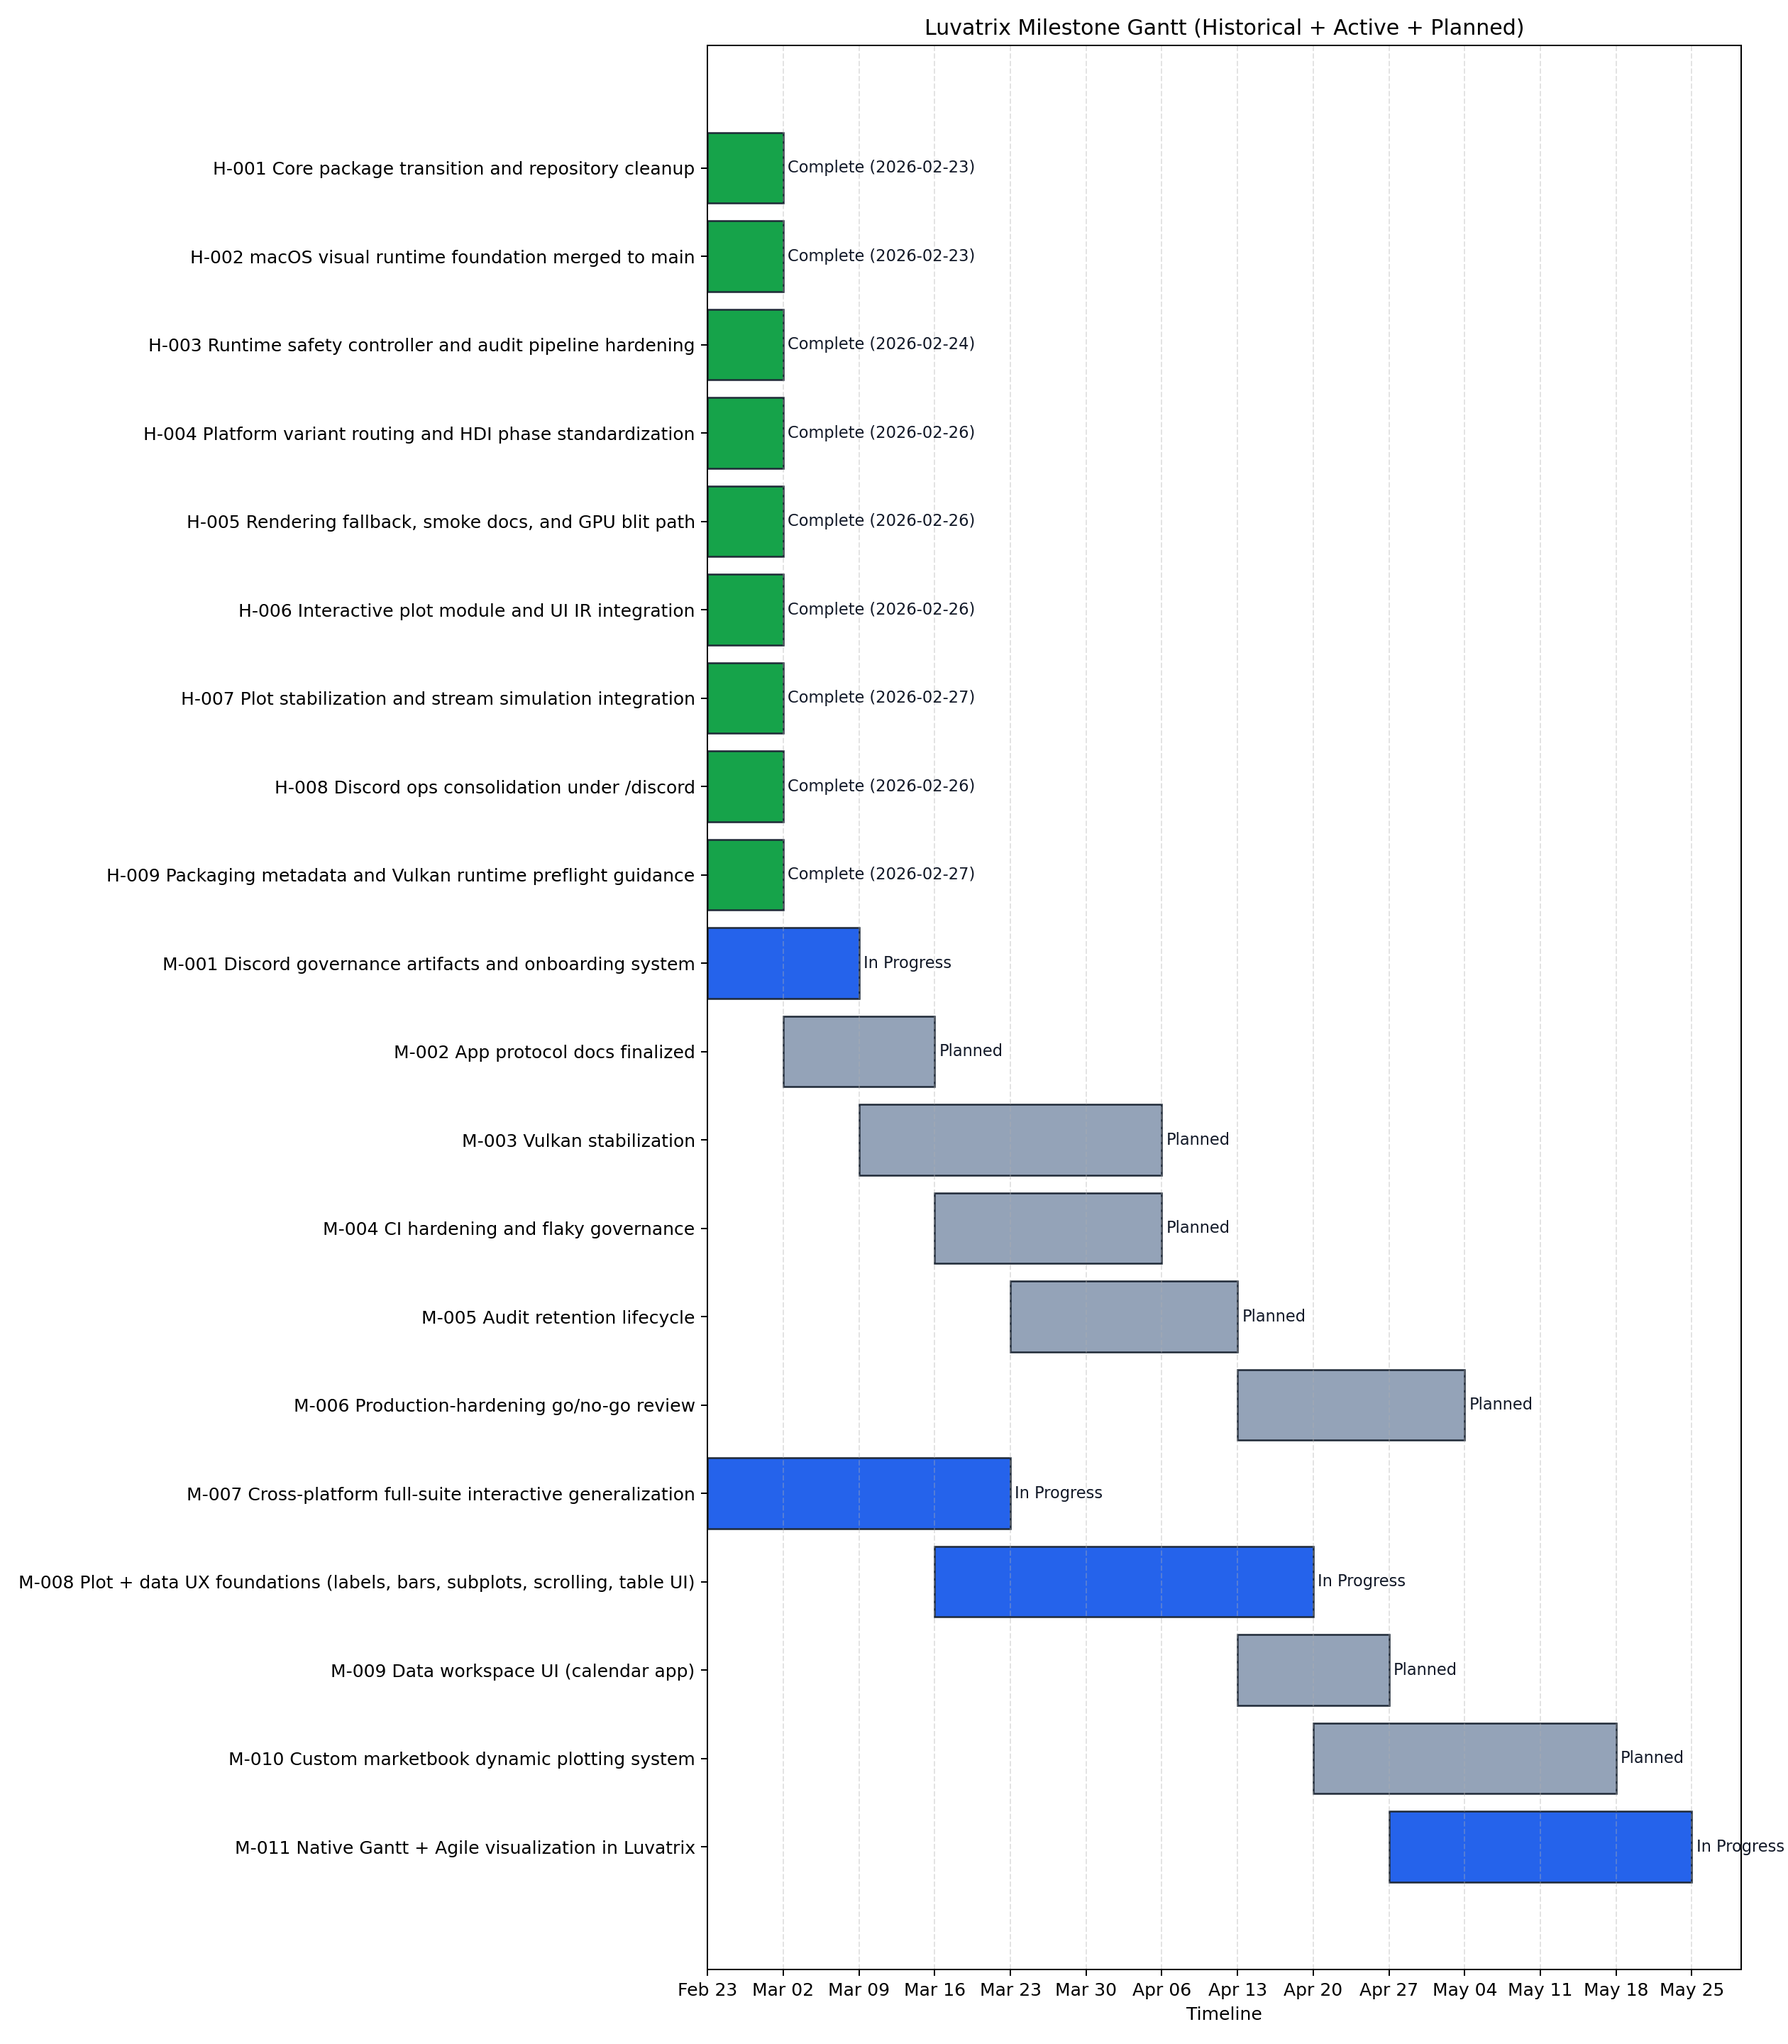
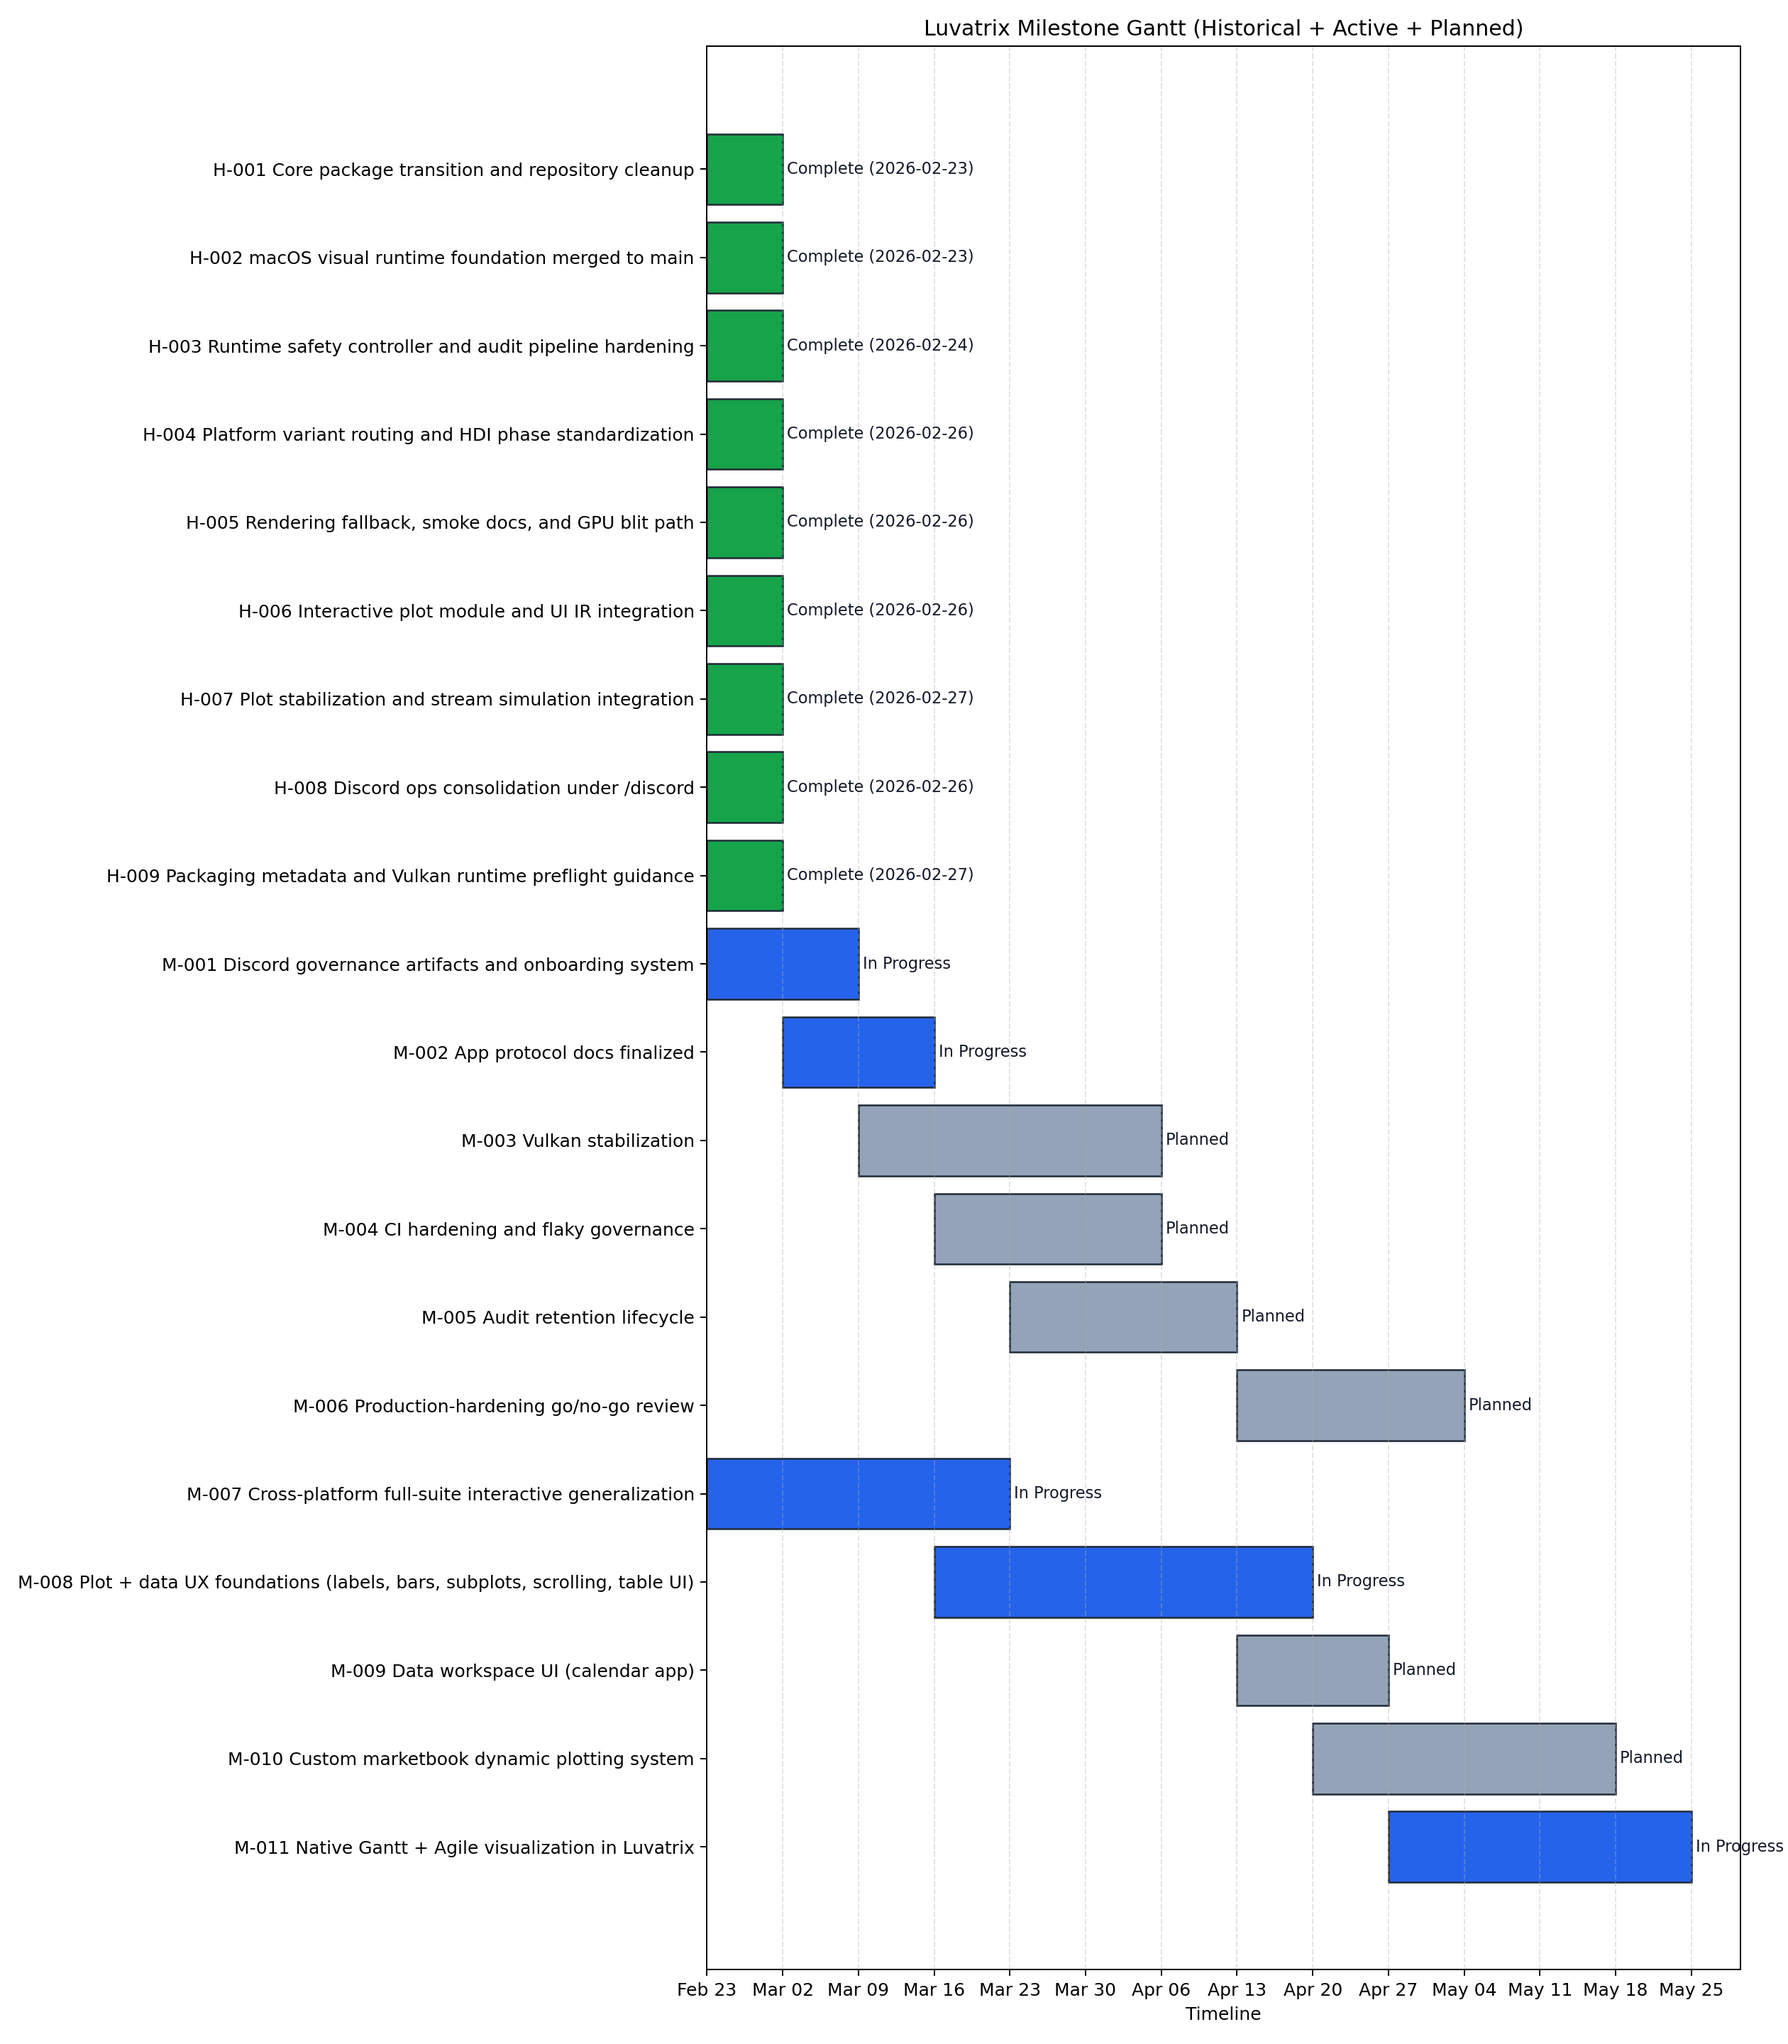
docs: finalize M-002 protocol docs and planning status

diff --git a/ops/planning/agile/m002_execution_board.md b/ops/planning/agile/m002_execution_board.md
@@ -1,0 +1,39 @@
+# M-002 Execution Board
+
+Milestone: `M-002` App protocol docs finalized
+Epic: `E-201`
+Task chain: `T-201 -> T-202 -> T-203`
+Last updated: `2026-03-01`
+
+## Backlog
+1. None.
+
+## Ready
+1. None.
+
+## In Progress
+1. None.
+
+## Review
+1. None.
+
+## Done
+1. `T-201` Add complete variant-routing examples to protocol docs.
+- Evidence:
+  `PYTHONPATH=. uv run pytest tests/test_app_runtime.py tests/test_protocol_governance.py tests/test_unified_runtime.py` (pass, 29 tests)
+2. `T-202` Add compatibility/deprecation matrix and migration notes.
+- Evidence:
+  `PYTHONPATH=. uv run pytest tests/test_protocol_governance.py tests/test_app_runtime.py` (covered by suite above, pass)
+3. `T-203` Add operator runbook examples and troubleshooting appendix.
+- Evidence:
+  `PYTHONPATH=. uv run pytest tests/test_unified_runtime.py tests/test_app_runtime.py` (covered by suite above, pass)
+
+## Evidence Log
+1. `2026-03-01`: Added `docs/app_protocol_variants_guide.md` with variant precedence, manifest snippets, run commands, unsupported-platform and bad-module-root failure cases.
+2. `2026-03-01`: Added `docs/app_protocol_compatibility_policy.md` with protocol matrix, bounds behavior, deprecation lifecycle, and migration checklist/examples.
+3. `2026-03-01`: Added `docs/app_protocol_operator_runbook.md` with operator cookbook, troubleshooting tree, incidents/recovery, and audit verification steps.
+4. `2026-03-01`: Linked new protocol docs from `docs/app_protocol.md` and `README.md`.
+5. `2026-03-01`: Updated task statuses via planning API:
+   `T-201/T-202/T-203 -> Done`, `M-002 -> In Progress`.
+6. `2026-03-01`: Validation and regression verification passed:
+   `PYTHONPATH=. uv run pytest tests/test_protocol_governance.py tests/test_app_runtime.py tests/test_unified_runtime.py` (`29 passed`).

diff --git a/ops/planning/gantt/milestones_gantt_detailed.md b/ops/planning/gantt/milestones_gantt_detailed.md
@@ -19,7 +19,7 @@ H-007 Plot stabilization and stream simulation integration                      
 H-008 Discord ops consolidation under /discord                                  |=======                                                                                    | Complete (2026-02-26)
 H-009 Packaging metadata and Vulkan runtime preflight guidance                  |=======                                                                                    | Complete (2026-02-27)
 M-001 Discord governance artifacts and onboarding system                        |##############                                                                             | In Progress
-M-002 App protocol docs finalized                                               |       ~~~~~~~~~~~~~~                                                                      | Planned
+M-002 App protocol docs finalized                                               |       ##############                                                                      | In Progress
 M-003 Vulkan stabilization                                                      |              ~~~~~~~~~~~~~~~~~~~~~~~~~~~~                                                 | Planned
 M-004 CI hardening and flaky governance                                         |                     ~~~~~~~~~~~~~~~~~~~~~                                                 | Planned
 M-005 Audit retention lifecycle                                                 |                            ~~~~~~~~~~~~~~~~~~~~~                                          | Planned

diff --git a/docs/app_protocol.md b/docs/app_protocol.md
@@ -239,3 +239,27 @@ For protocol/UI work, keep these documents aligned:
 4. `docs/app_protocol_variants_guide.md` (variant routing and failure cases)
 5. `docs/app_protocol_compatibility_policy.md` (version compatibility and deprecation policy)
 6. `docs/app_protocol_operator_runbook.md` (operator commands and troubleshooting)
+
+## 18. First-Party App Standardization Checklist
+
+A first-party app is considered protocol-standardized only when all items below are true:
+
+1. Manifest includes required fields:
+   `app_id`, `protocol_version`, `entrypoint`, `required_capabilities`, `optional_capabilities`.
+2. Protocol governance is explicit:
+   use `min_runtime_protocol_version` / `max_runtime_protocol_version` when release bounds are required.
+3. Variant routing is deterministic:
+   use normalized `platform_support` and `[[variants]]` entries with stable IDs and non-escaping `module_root`.
+4. Lifecycle object implements:
+   `init(ctx)`, `loop(ctx, dt)`, `stop(ctx)`.
+5. Capability gating assumptions are documented:
+   expected `DENIED` behavior for missing HDI/sensor permissions is intentional and tested.
+6. Operator runbook coverage exists:
+   run commands, troubleshooting, and audit verification are documented.
+7. CI/verification evidence includes protocol governance and app runtime variant tests.
+
+Companion references:
+
+1. `docs/app_protocol_variants_guide.md`
+2. `docs/app_protocol_compatibility_policy.md`
+3. `docs/app_protocol_operator_runbook.md`

diff --git a/ops/planning/gantt/milestones_gantt.md b/ops/planning/gantt/milestones_gantt.md
@@ -15,7 +15,7 @@ H-007 🔌 Plot stabilization and stream simulation integration                 
 H-008 🗂 Discord ops consolidation under /discord                                 █············  🟢 Complete (2026-02-26)
 H-009 📦 Packaging metadata and Vulkan runtime preflight guidance                  █············  🟢 Complete (2026-02-27)
 M-001 🧱 Discord governance artifacts and onboarding system                        ██···········  🔵 In Progress
-M-002 📜 App protocol docs finalized                                               ·██··········  ⚪ Planned
+M-002 📜 App protocol docs finalized                                               ·██··········  🔵 In Progress
 M-003 🎮 Vulkan stabilization                                                      ··████·······  ⚪ Planned
 M-004 🧪 CI hardening and flaky governance                                         ···███·······  ⚪ Planned
 M-005 🛡 Audit retention lifecycle                                                ····███······  ⚪ Planned
@@ -91,7 +91,7 @@ Canonical schedule source: `ops/planning/gantt/milestone_schedule.json`
 - Tasks: `T-101, T-102, T-103`
 
 ### M-002 📜 App protocol docs finalized
-- Status: Planned
+- Status: In Progress
 - Target window: Week 2-3
 - Tasks: `T-201, T-202, T-203`
 
